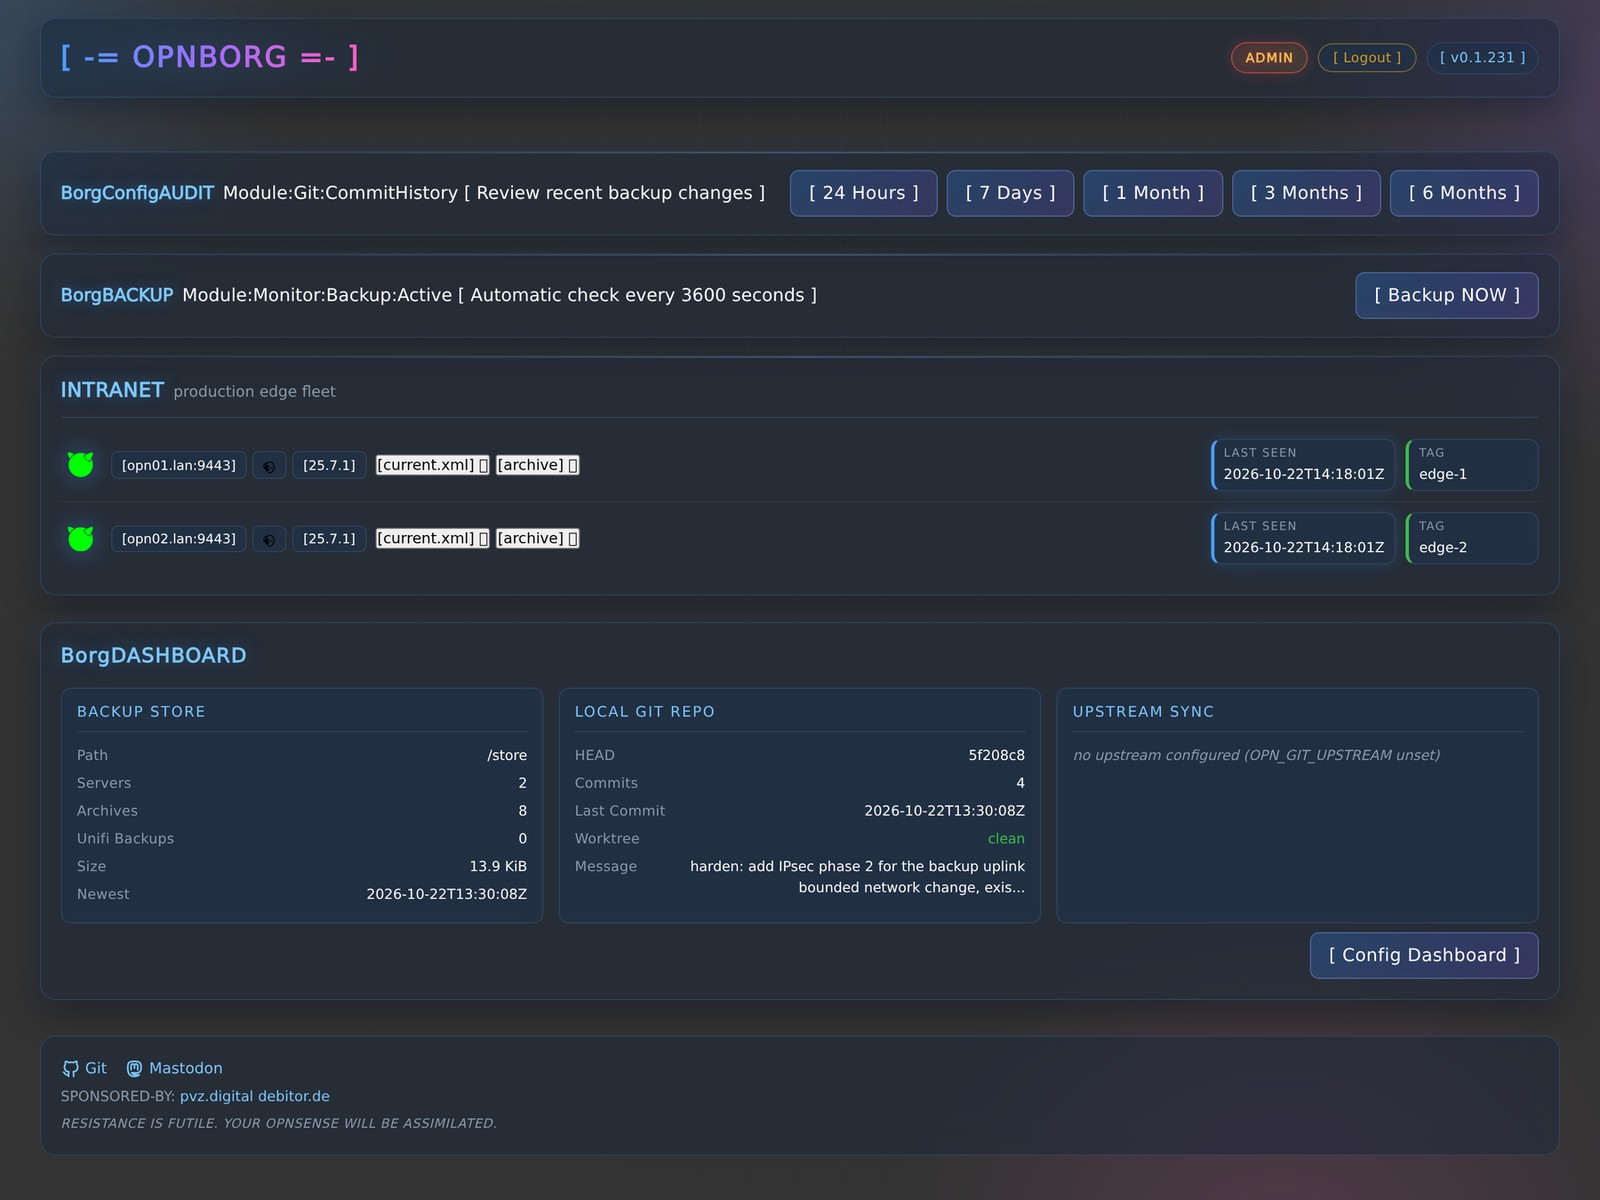
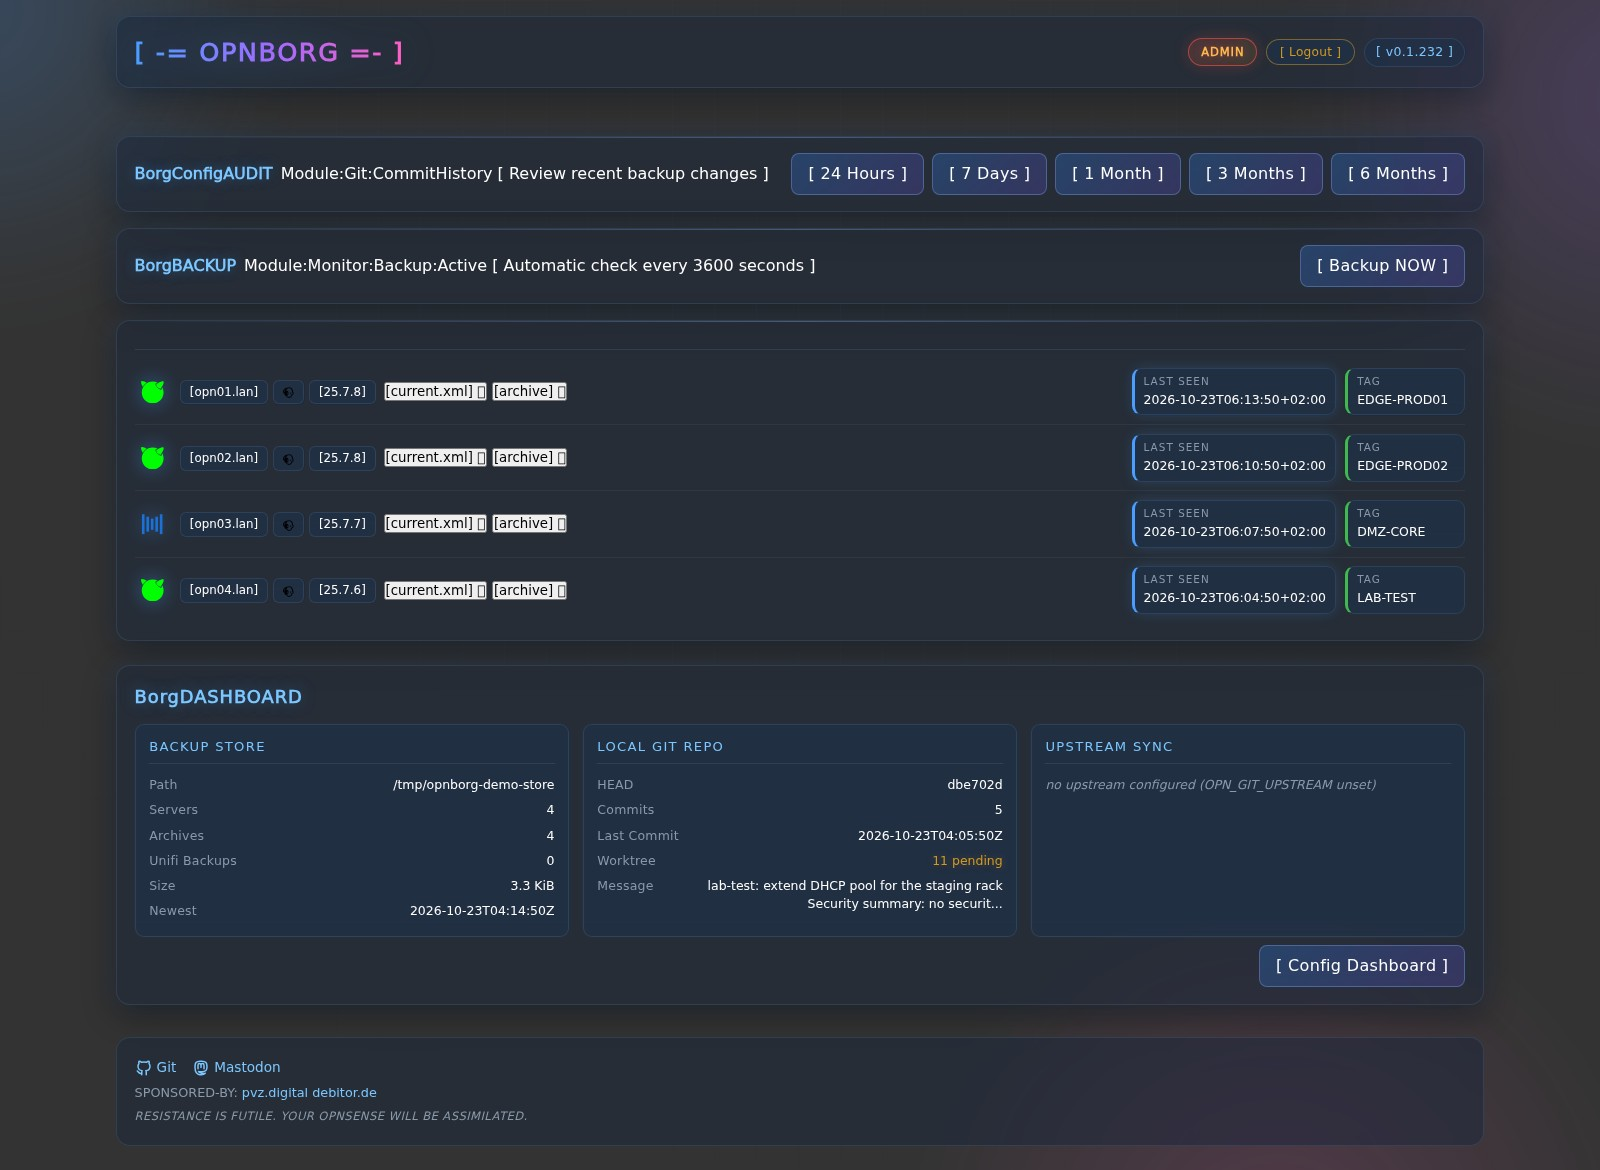
docs: showcase a four-member fleet with fresh admin-mode screenshots
Refresh the README WebUI captures from a live demo daemon so the hive,
audit, progress and config pages show a realistic four-member fleet with
live firmware versions, expanded diffs and pass statistics. Also stop the
WebUI nav and hive controls from shrinking inside flex rows, so long labels
wrap instead of clipping.

diff --git a/httpd-ui.go b/httpd-ui.go
@@ -329,7 +329,7 @@ body::after{content:"";position:fixed;inset:0;z-index:-1;background-image:linear
 .app-header{display:flex;align-items:center;justify-content:space-between;padding:1rem 1.1rem;margin-bottom:.5rem;background:var(--card);backdrop-filter:var(--glass);-webkit-backdrop-filter:var(--glass);border:1px solid var(--border);border-radius:var(--radius);box-shadow:var(--shadow),var(--glow)}
 .app-header h1{font-size:1.6rem;letter-spacing:.06em;background:linear-gradient(90deg,var(--accent),var(--neon),var(--neon-2));-webkit-background-clip:text;background-clip:text;color:transparent;filter:drop-shadow(0 0 18px rgba(74,158,255,.35))}
 nav{display:flex;flex-wrap:wrap;gap:.5rem;padding:.75rem 0}
-nav a{text-decoration:none}
+nav a{text-decoration:none;flex-shrink:0}
 nav a button{background:var(--card-2);color:var(--fg);border:1px solid var(--border);padding:.4rem .85rem;border-radius:99px;cursor:pointer;font-size:.82rem;letter-spacing:.02em;backdrop-filter:var(--glass-2);-webkit-backdrop-filter:var(--glass-2);transition:border-color .25s,box-shadow .25s,transform .2s,background .25s}
 nav a button:hover{border-color:var(--accent);box-shadow:0 0 18px rgba(74,158,255,.35);transform:translateY(-1px);background:rgba(74,158,255,.12)}
 nav .audit-active button{border-color:var(--accent);background:rgba(74,158,255,.14);box-shadow:0 0 16px rgba(74,158,255,.3);color:var(--accent-2)}
@@ -353,6 +353,8 @@ nav .audit-active button{border-color:var(--accent);background:rgba(74,158,255,.
 .member-status{display:flex;align-items:center;font-size:1.4rem;flex-shrink:0;min-width:1.6em;justify-content:center;filter:drop-shadow(0 0 10px rgba(74,158,255,.45))}
 .member-main{display:flex;align-items:center;gap:.5rem;flex-wrap:wrap;flex:1 1 auto;min-width:200px}
 .member-links{display:flex;gap:.3rem;flex-wrap:wrap;align-items:center}
+.member-links a{flex-shrink:0}
+.member-links button{white-space:nowrap}
 .member-links a button{background:var(--card-2);color:var(--fg);border:1px solid var(--border);padding:.28rem .55rem;border-radius:6px;cursor:pointer;font-size:.74rem;font-family:var(--mono);transition:border-color .2s,box-shadow .2s,background .2s,transform .15s;backdrop-filter:var(--glass-2)}
 .member-links a button:hover{border-color:var(--accent);background:rgba(74,158,255,.14);box-shadow:0 0 14px rgba(74,158,255,.3);transform:translateY(-1px)}
 .member-links a button img{vertical-align:middle}

diff --git a/api.go b/api.go
@@ -11,7 +11,7 @@ import (
 // below and is overridden at build time via
 // `-ldflags "-X paepcke.de/opnborg.SemVer=<tag>"` by the Docker image build,
 // goreleaser and `make build` so shipped artifacts always report their tag.
-var SemVer = "v0.1.231"
+var SemVer = "v0.1.232"
 
 // global var
 var (

diff --git a/README.md b/README.md
@@ -14,8 +14,10 @@ A single self-hosted Go daemon that keeps every OPNsense firewall (and optionall
 controller) in a git-tracked, SHA-256 deduplicated archive — then lets a local LLM write the
 security review of every change it makes.
 
+**0** agents on the firewalls · **0** database servers · **0** runtime dependencies · **1** static binary.
+
 <sub><b>⚡ ESTABLISHED IN THE OPEN SINCE SEPTEMBER 2024</b> · 2 years of continuous public development
-on GitHub · 289 tagged releases · still one binary, still zero runtime dependencies</sub>
+on GitHub · 290 tagged releases · still one binary, still zero runtime dependencies</sub>
 
 [![Go Reference](https://pkg.go.dev/badge/paepcke.de/opnborg.svg)](https://pkg.go.dev/paepcke.de/opnborg)
 [![Go Report Card](https://goreportcard.com/badge/paepcke.de/opnborg)](https://goreportcard.com/report/paepcke.de/opnborg)
@@ -63,38 +65,41 @@ on GitHub · 289 tagged releases · still one binary, still zero runtime depende
 
 ## 📸 Screenshots
 
-> Real captures from a live `opnborg` daemon, not mockups: a two-member edge fleet is backed up,
-> reviewed by the model, committed to git, and displayed in the dark WebUI theme.
+> Real captures from a live `opnborg` daemon, not mockups: a four-member edge hive is backed up,
+> reviewed by the model, committed to git, and displayed in the dark WebUI theme — authenticated
+> as an admin so the full diff and approval controls are visible.
 
 <details open>
 <summary><b>🖥 The hive — fleet status at a glance</b></summary>
 <br>
 
-<img src="docs/screenshot-hive.jpg" width="100%" alt="OPNBORG hive dashboard showing two OPNsense members, their firmware versions, asset tags, last-seen times and archive links">
+<img src="docs/screenshot-hive.jpg" width="100%" alt="OPNBORG hive dashboard showing four OPNsense members in admin mode, live firmware versions, asset tags, last-seen times, archive links and the BorgDASHBOARD store and git summary">
 
 Every member tile carries its live firmware version, asset tag, last-seen time and
-`current.xml` / `.archive` links. Config downloads stay locked until you authenticate.
+`current.xml` / `.archive` links — here with one member degraded so the status colors are visible.
+The BorgDASHBOARD below summarises the backup store, the local git repo and upstream sync health.
 </details>
 
 <details open>
 <summary><b>🧟 BorgAUDIT — the AI-reviewed change history</b></summary>
 <br>
 
-<img src="docs/screenshot-audit.jpg" width="100%" alt="BorgAUDIT page with the security threat level summary, severity-tagged commit cards, an APPROVED high-severity change and its unified diff">
+<img src="docs/screenshot-audit.jpg" width="100%" alt="BorgAUDIT page with the security threat level summary, five severity-tagged commits, expanded unified diffs and approved and pending approval states">
 
 Threat-level summary, severity-tagged commits, and a full unified diff on demand.
-This capture shows a `high, needs-review` change that has been reviewed and approved
-in the ledger; the medium-severity sync commit is still awaiting approval.
+Two changes are approved in the ledger; a `critical, needs-review` DMZ rule change is still
+waiting for the operator, and the severity map at the top filters the list on click.
 </details>
 
 <details open>
 <summary><b>⚡ Live backup console — force a pass and watch it stream</b></summary>
 <br>
 
-<img src="docs/screenshot-progress.jpg" width="100%" alt="OPNBORG forced backup progress view with the radar animation, progress bar, live statistics and streaming per-server log">
+<img src="docs/screenshot-progress.jpg" width="100%" alt="OPNBORG forced backup progress view with the radar animation, progress bar, four live server and seven change counters and a streaming per-server log">
 
 `/force` arms a pass; this page streams the daemon log line by line, shows live
-stats, and redirects back to the hive when the pass completes.
+stats (16 lines · 4 servers · 7 changes · 0 errors in this capture), and redirects back to the
+hive when the pass completes.
 </details>
 
 <details>

diff --git a/AGENTS.md b/AGENTS.md
@@ -12,7 +12,7 @@ Reference guide for AI agents working in the `opnborg` repository.
 >    Always use parallel package builds (the Go toolchain default); never pass `-p 1`.
 > 3. **Test** — `go test -count=1 ./...` must pass. Always use parallel test
 > 4. **Commit** — `git add . && git commit -m '<message>'`
-> 5. **Tag** — bump the patch segment only: `v0.1.<N+1>` (latest tag is `v0.1.231`).
+> 5. **Tag** — bump the patch segment only: `v0.1.<N+1>` (latest tag is `v0.1.232`).
 >    Never move, delete, or reuse an existing tag. Also bump the `SemVer` constant
 >    in `api.go` to match the new tag.
 > 6. **Push** — always push commits and tags.
@@ -242,6 +242,9 @@ The test suite lives in `littlehelper_test.go` (package `opnborg`) and covers en
 - `config.dirty` is an `atomic.Bool` — always `.Store()`/`.Load()`, never `=`.
 - `hive`, `unifiStatus`, and `unifiWatchStatus` are package globals guarded by `hiveMutex`/`unifiMutex`/`unifiWatchMutex`. Mutate only under the matching lock.
 - `gofmt -s` (simplify) is enforced; run `make check` before committing.
+- WebUI nav and hive member controls must never shrink: `nav a`, `.member-links a` and
+  `.member-links button` carry `flex-shrink:0` / `white-space:nowrap` so long labels wrap
+  instead of clipping inside the flex row.
 - The WebUI HTML/SVG is hand-rolled and inlined as Go `const` strings in `httpd-ui.go`. The favicon is embedded via `//go:embed resources/borg.png`.
 - README artwork lives in `docs/`:
 - `hero-{dark,light}.svg` — hand-built theme-aware banner (1280x360 canvas).
